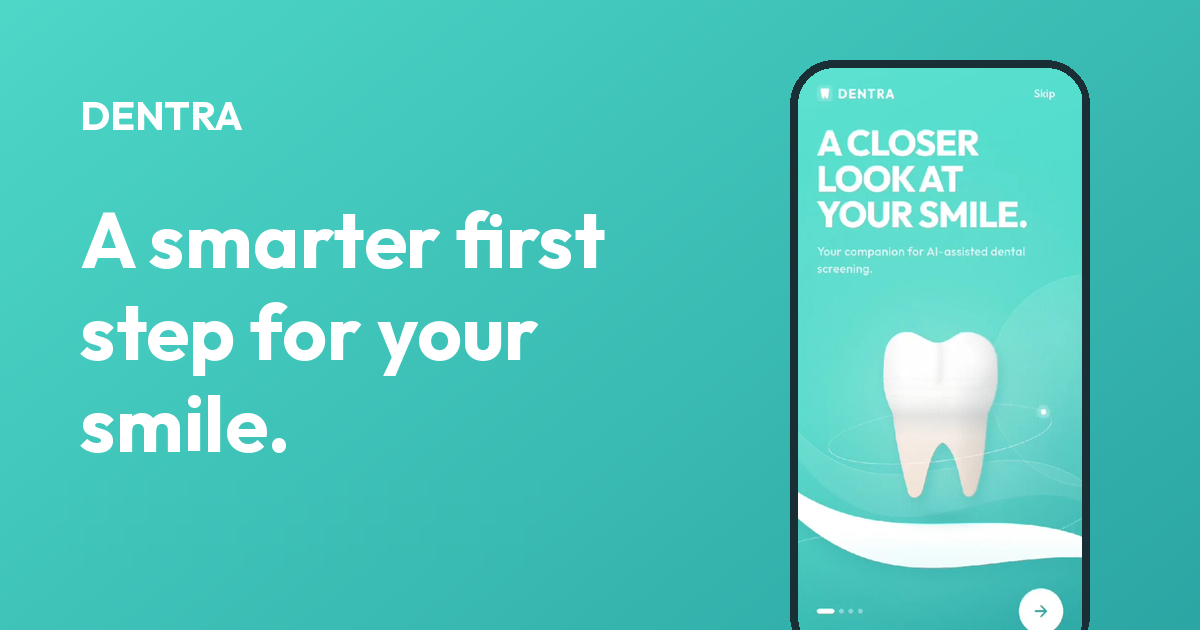
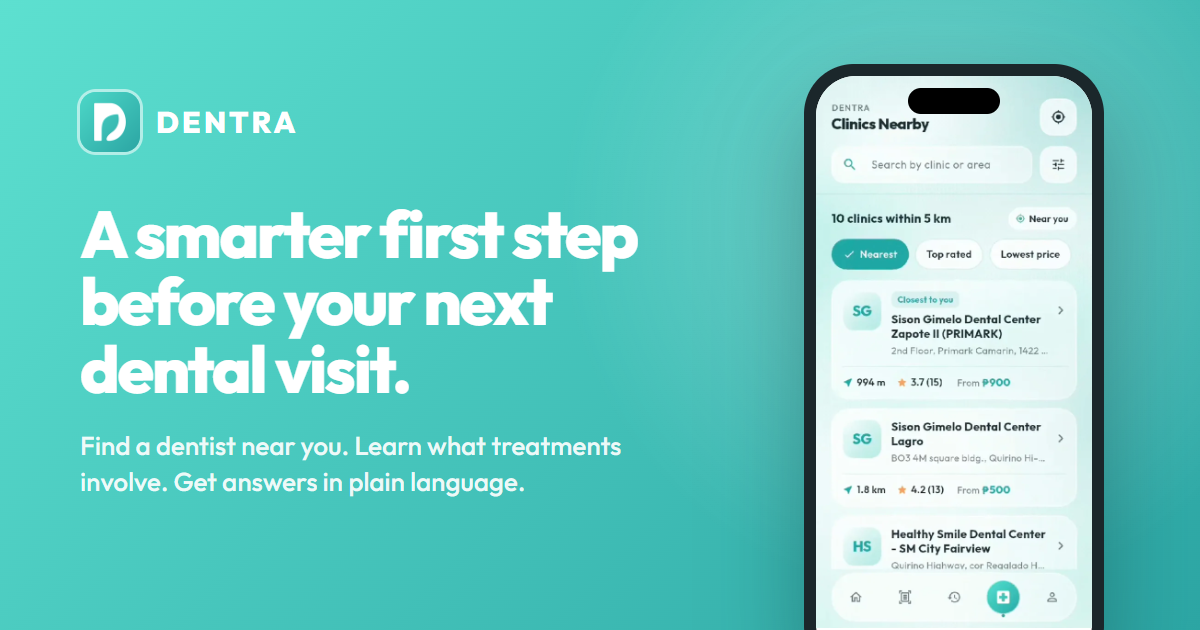
Audit site copy against DENTRA_app_context.md
Hero, title, meta and OG copy lead with what works today (Clinic Finder,
Treatment Library, AI assistant) instead of 'Screen at home'. Scan step is
'Capture' and labelled a prototype with demo results; device copy says
'Capstone prototype', explains or drops jargon (NIR, intraoral, typodont,
18650, MOSFET) and never claims detection. 'Rabi' replaced with 'AI
assistant' pending team sign-off; FAQ notes prices are estimates; privacy
copy no longer implies saved settings. New og.png (scripts/render-og.mjs)
drops the 'AI-assisted dental screening' text. Play badge reads 'Get it on'
per the owner (still not a link). Boards hide behind the wand at step 0.

diff --git a/app/treatments-ai.jsx b/app/treatments-ai.jsx
@@ -5,16 +5,16 @@ import Icon from '../components/icon';
 import Reveal from './reveal';
 
 const treatments = {
-  General: { name: 'Teeth cleaning', what: 'Removes plaque and tartar that brushing can miss.', time: '30–60 min', steps: ['Check-up and exam', 'Scaling removes tartar', 'Polishing', 'Home care tips'] },
+  General: { name: 'Teeth cleaning', what: 'Removes plaque and tartar that brushing can miss.', time: '30–60 min', steps: ['Check-up and exam', 'Hardened plaque (tartar) scraped off', 'Polishing', 'Home care tips'] },
   Cosmetic: { name: 'Teeth whitening', what: 'Lightens stains for a brighter-looking smile.', time: '60–90 min', steps: ['Shade check', 'Gums protected', 'Whitening gel applied', 'New shade reviewed'] },
-  Orthodontics: { name: 'Braces', what: 'Gradually moves teeth into better alignment.', time: '1–2 hrs to fit', steps: ['Consult and X-rays', 'Brackets bonded', 'Wire placed', 'Adjustment visits'] },
+  Orthodontics: { name: 'Braces', what: 'Gradually moves teeth into better alignment.', time: '1–2 hrs to fit', steps: ['Consult and X-rays', 'Small brackets glued to teeth', 'Wire placed', 'Adjustment visits'] },
   Surgical: { name: 'Tooth extraction', what: 'Removes a tooth that can’t be saved or is crowding others.', time: '20–40 min', steps: ['Exam and X-ray', 'Area numbed', 'Tooth removed', 'Aftercare guidance'] },
 };
 
 // Sample exchanges showing the kind of answer Rabi gives. Educational only.
 const chats = [
   { q: 'How often should I get a cleaning?', a: 'Many dentists suggest a check-up and cleaning about every six months. Your dentist may suggest a different schedule for you.' },
-  { q: 'What happens when braces are fitted?', a: 'Small brackets are bonded to your teeth and a wire is threaded through them. Fitting usually takes one to two hours, with adjustment visits after.' },
+  { q: 'What happens when braces are fitted?', a: 'Small brackets are glued to your teeth and a thin wire is threaded through them. Fitting usually takes one to two hours, with adjustment visits after.' },
   { q: 'Is whitening right for me?', a: 'It depends on your teeth and gums. A dentist can check whether whitening suits you and which option is safest.' },
 ];
 
@@ -64,7 +64,7 @@ export default function TreatmentsAI() {
           <Reveal delay={100} className="card panel">
             <div className="panel-head">
               <span className="icon-tile icon-tile-sm"><Icon name="chat" size={18} /></span>
-              <b>Ask Rabi</b>
+              <b>Ask the AI assistant</b>
               <span className="chip">Sample answers</span>
             </div>
             <div className="chat" key={chat} aria-live="polite">
@@ -78,7 +78,7 @@ export default function TreatmentsAI() {
                 </button>
               ))}
             </div>
-            <p className="note">Rabi gives educational answers in plain language. Guidance, not a diagnosis.</p>
+            <p className="note">The AI assistant gives general, educational answers in plain language. It is not medical advice or a diagnosis.</p>
           </Reveal>
         </div>
       </div>

diff --git a/components/device/steps.js b/components/device/steps.js
@@ -14,16 +14,16 @@ import RaspberryPiZero from './RaspberryPiZero';
 // Copy rules: plain language, "captures / helps guide / designed to", never a
 // detection, diagnosis or accuracy claim.
 export const STEPS = [
-  { id: 'shell', name: 'Enclosure shell', desc: '3D-printed housing with an optical window.', Part: EnclosureShell, anchorX: 332, z: 10 },
-  { id: 'barrier', name: 'Disposable intraoral barrier', desc: 'A fresh cover for every use, for hygiene.', Part: DisposableBarrier, anchorX: 164, z: 20 },
-  { id: 'camera', name: 'Camera Module 3 NoIR', desc: 'Captures the tooth images.', Part: CameraModule, anchorX: 184, z: 8 },
-  { id: 'leds', name: '850 nm NIR LEDs', desc: 'Near-infrared light, with resistors and MOSFET drivers.', Part: NIRLEDs, anchorX: 160, z: 7 },
+  { id: 'shell', name: 'Enclosure shell', desc: 'A 3D-printed case with a clear window at the tip for the camera. Shown here as a concept render.', Part: EnclosureShell, anchorX: 332, z: 10 },
+  { id: 'barrier', name: 'Disposable barrier', desc: 'A single-use cover for the part that goes inside the mouth. A fresh one every time, for hygiene.', Part: DisposableBarrier, anchorX: 138, z: 20 },
+  { id: 'camera', name: 'Camera module', desc: 'A tiny camera that can also see near-infrared light, which our eyes can’t. It takes the tooth photos.', Part: CameraModule, anchorX: 184, z: 8 },
+  { id: 'leds', name: 'Near-infrared lights', desc: 'Small LEDs that give off light our eyes can’t see but the camera can, to light up the teeth.', Part: NIRLEDs, anchorX: 160, z: 7 },
   { id: 'pi', name: 'Raspberry Pi Zero 2 W', desc: 'The tiny computer that runs the camera.', Part: RaspberryPiZero, anchorX: 304, z: 6 },
-  { id: 'power', name: 'Power board', desc: 'TP4056 charging, 5V boost converter, power switch and fuse.', Part: PowerBoard, anchorX: 312, z: 5 },
-  { id: 'battery', name: '18650 battery', desc: 'Rechargeable power for handheld use.', Part: Battery18650, anchorX: 304, z: 4 },
+  { id: 'power', name: 'Power board', desc: 'Charges the battery and keeps the power steady, with an on/off switch and a fuse for safety.', Part: PowerBoard, anchorX: 312, z: 5 },
+  { id: 'battery', name: 'Rechargeable battery', desc: 'A standard lithium-ion battery, so it works without a cable.', Part: Battery18650, anchorX: 304, z: 4 },
 ];
 
 export const FINAL = {
   name: 'The whole prototype',
-  desc: 'Capstone research prototype. Tested on typodont (artificial teeth) models.',
+  desc: 'A capstone prototype. So far it has only been tested on typodonts (practice models of teeth). It does not detect or diagnose anything.',
 };

diff --git a/components/device/DeviceExplodedView.jsx b/components/device/DeviceExplodedView.jsx
@@ -149,7 +149,10 @@ export default function DeviceExplodedView() {
   const active = step >= 1 && step <= N ? step - 1 : -1;
   // While a step is active, only the top of the remaining stack stays visible
   // (dimmed, "next up"): dimmed parts overlapping each other read as a smudge.
+  // Assembled (step 0), the boards are inside the wand, so only the housing and
+  // the sleeve show.
   const partClass = (i) => {
+    if (step === 0) return i > 1 ? ' is-hidden' : '';
     if (active === -1) return '';
     if (i === active) return ' is-active';
     return i > active + 1 ? ' is-hidden' : ' is-dim';
@@ -162,7 +165,7 @@ export default function DeviceExplodedView() {
         : `Step ${N + 1} of ${N + 1}: ${FINAL.desc}`;
 
   return (
-    <section className="device" id="device" aria-label="Inside the DENTRA scanner, a research prototype">
+    <section className="device" id="device" aria-label="Inside the DENTRA camera, a capstone prototype">
       {/* Pinned, scroll-driven view */}
       <div className="device-track" ref={trackRef}>
         <div className="device-stage" ref={stageRef}>
@@ -186,12 +189,12 @@ export default function DeviceExplodedView() {
 
             <div className="device-panel">
               <p className="device-eyebrow">
-                The device <span className="device-tag">Research prototype</span>
+                The device <span className="device-tag">Capstone prototype</span>
               </p>
               <div className="device-labels">
                 <div className={`device-label${step === 0 ? ' on' : ''}`}>
                   <h2 className="device-title">See what&apos;s inside.</h2>
-                  <p className="muted">Scroll to open up the DENTRA scanner, one part at a time.</p>
+                  <p className="muted">Scroll to open up our prototype camera, one part at a time.</p>
                 </div>
                 {STEPS.map((s, i) => (
                   <div key={s.id} className={`device-label${step === i + 1 ? ' on' : ''}`} aria-hidden="true">
@@ -227,7 +230,7 @@ export default function DeviceExplodedView() {
       <div className="device-static">
         <div className="wrap">
           <p className="device-eyebrow">
-            The device <span className="device-tag">Research prototype</span>
+            The device <span className="device-tag">Capstone prototype</span>
           </p>
           <h2 className="device-title">See what&apos;s inside.</h2>
           <ol className="device-static-list">

diff --git a/app/faq.jsx b/app/faq.jsx
@@ -8,9 +8,9 @@ import Reveal from './reveal';
 const faqs = [
   ['Is DENTRA a diagnosis?', 'No. DENTRA gives general information and screening guidance to help you decide when to see a dentist. It does not diagnose any condition.'],
   ['Does it replace my dentist?', 'No. Think of it as a first step. Always see a licensed dentist for care.'],
-  ['What is the DENTRA scanner?', 'A handheld camera our capstone team built as a research prototype. It has been tested on typodont (artificial teeth) models only, has not been clinically validated, and is not for sale.'],
-  ['How do I get it?', 'On Android, DENTRA is coming soon to Google Play. On iPhone, open the DENTRA web app in Safari and add it to your Home Screen, as shown above.'],
-  ['Are clinic prices and services real?', 'Clinic locations come from real map data. Service lists in the app are estimates, so confirm details with the clinic directly.'],
+  ['What is the DENTRA camera?', 'A small handheld camera for taking photos inside the mouth, built by our capstone team as a prototype. It has only been tested on typodonts (practice models of teeth). It has not been proven for real dental care, and it does not detect or diagnose anything.'],
+  ['How do I get it?', 'On Android, DENTRA is coming soon to Google Play. The DENTRA web app works now in any browser. On iPhone, open it in Safari and add it to your Home Screen, as shown above.'],
+  ['Are clinic prices and services real?', 'Clinic locations come from real map data. Prices and service lists in the app are estimates, not confirmed by the clinics, so check details with the clinic directly.'],
 ];
 
 export default function Faq() {
@@ -38,7 +38,7 @@ export default function Faq() {
 
         <Reveal className="card cta-final">
           <h2>Get DENTRA on your phone.</h2>
-          <p className="muted">Screen at home, understand your options and find a dentist nearby.</p>
+          <p className="muted">Find a dentist near you, understand your options, and get answers in plain language.</p>
           <div className="cta-row">
             <HomeScreenBadge />
             <PlayBadge />

diff --git a/app/hero.jsx b/app/hero.jsx
@@ -8,8 +8,8 @@ import { HomeScreenBadge, PlayBadge } from '../components/store-badges';
 const screens = [
   { name: 'clinics', icon: 'pin', title: 'Clinics nearby', sub: 'Nearest first', alt: 'Clinics Nearby screen listing dental clinics sorted by distance' },
   { name: 'treatments', icon: 'book', title: 'Treatment library', sub: 'Know what to expect', alt: 'Treatments screen with search and category chips' },
-  { name: 'rabi', icon: 'chat', title: 'Ask Rabi', sub: 'Plain-language answers', alt: 'Rabi, the DENTRA assistant, with suggested dental questions' },
-  { name: 'scan', icon: 'camera', title: 'Guided scan', sub: 'Five views, one at a time', alt: 'Dental Scan screen with five mouth regions to capture' },
+  { name: 'rabi', icon: 'chat', title: 'AI assistant', sub: 'Plain-language answers', alt: 'The DENTRA AI assistant, with suggested dental questions' },
+  { name: 'scan', icon: 'camera', title: 'Guided capture', sub: 'Prototype, demo results', alt: 'Guided capture screen with five mouth regions to photograph (prototype)' },
 ];
 
 export default function Hero() {
@@ -25,13 +25,13 @@ export default function Hero() {
     <section className="hero" id="top">
       <div className="wrap hero-in">
         <div className="hero-text rise">
-          <p className="eyebrow">Dental screening, made simple</p>
+          <p className="eyebrow">Clinics, treatments and answers in one app</p>
           <h1>
             A smarter first step
             <br />
-            <span className="grad">for your smile.</span>
+            <span className="grad">before your next dental visit.</span>
           </h1>
-          <p className="lead">Screen at home. Understand your options. Find a dentist nearby.</p>
+          <p className="lead">Find a dentist near you, learn what common treatments involve, and get answers in plain language.</p>
           <div className="hero-cta">
             <HomeScreenBadge />
             <PlayBadge />

diff --git a/app/layout.jsx b/app/layout.jsx
@@ -4,17 +4,17 @@ import './globals.css';
 const outfit = Outfit({ subsets: ['latin'], display: 'swap' });
 
 export const metadata = {
-  title: 'DENTRA — Dental screening, made simple',
+  title: 'DENTRA — A smarter first step before your next dental visit',
   description:
-    'Screen at home. Understand your options. Find a dentist nearby. DENTRA is coming soon to Google Play.',
+    'Find dental clinics near you, learn what common treatments involve, and ask questions in plain language. DENTRA is coming soon to Google Play.',
   metadataBase: new URL('https://getdentra.site'),
   openGraph: {
     type: 'website',
     url: '/',
     siteName: 'DENTRA',
-    title: 'DENTRA — A smarter first step for your smile',
+    title: 'DENTRA — A smarter first step before your next dental visit',
     description:
-      'Screen at home. Understand your options. Find a dentist nearby. Coming soon to Google Play.',
+      'Find dental clinics near you, learn what common treatments involve, and ask questions in plain language. DENTRA is coming soon to Google Play.',
     images: [
       {
         url: '/og.png',
@@ -26,9 +26,9 @@ export const metadata = {
   },
   twitter: {
     card: 'summary_large_image',
-    title: 'DENTRA — A smarter first step for your smile',
+    title: 'DENTRA — A smarter first step before your next dental visit',
     description:
-      'Screen at home. Understand your options. Find a dentist nearby. Coming soon to Google Play.',
+      'Find dental clinics near you, learn what common treatments involve, and ask questions in plain language. DENTRA is coming soon to Google Play.',
     images: ['/og.png'],
   },
 };

diff --git a/app/how-it-works.jsx b/app/how-it-works.jsx
@@ -3,8 +3,8 @@ import { shot, shot2x } from '../components/phone';
 import Reveal from './reveal';
 
 const steps = [
-  { tag: '01', title: 'Scan', icon: 'camera', body: 'Guided steps walk you through five views of your mouth, one at a time.', screen: 'scan', alt: 'Guided scan screen with five capture regions' },
-  { tag: '02', title: 'Understand', icon: 'chat', body: 'Read what common treatments involve, or ask Rabi in plain language.', screen: 'rabi', alt: 'Rabi assistant with suggested questions' },
+  { tag: '01', title: 'Capture', icon: 'camera', body: 'Guided steps help you photograph your teeth, one view at a time. This part is a prototype, so results are demo values for now.', screen: 'scan', alt: 'Guided capture screen with five photo regions (prototype)' },
+  { tag: '02', title: 'Understand', icon: 'chat', body: 'Read what common treatments involve, or ask the AI assistant in plain language.', screen: 'rabi', alt: 'AI assistant screen with suggested questions' },
   { tag: '03', title: 'Act', icon: 'pin', body: 'Find real clinics around you, nearest first. Call or get directions.', screen: 'clinics', alt: 'Clinics list sorted by distance' },
 ];
 
@@ -14,7 +14,7 @@ export default function HowItWorks() {
       <div className="wrap">
         <Reveal className="head center">
           <p className="eyebrow">How it works</p>
-          <h2 className="h2">Scan. Understand. Act.</h2>
+          <h2 className="h2">Capture. Understand. Act.</h2>
         </Reveal>
         <div className="how-grid">
           {steps.map((s, i) => (

diff --git a/components/store-badges.jsx b/components/store-badges.jsx
@@ -1,9 +1,8 @@
-// Store-style badges (black, logo left, small line over a big line). The copy
-// is deliberately not the official badge text: DENTRA is not on the App Store
-// (iPhone uses the web app) and not yet on Google Play.
+// Store-style badges (black, logo left, small line over a big line). The Apple
+// badge never says "App Store": iPhone users get DENTRA as a web app.
 
 // Set to the Play Store listing URL once DENTRA is published; until then the
-// Play badge reads "Coming soon to" and is not a link.
+// Play badge is not a link. "Get it on" is the owner's call (2026-10-31).
 export const PLAY_URL = null;
 
 const AppleLogo = () => (
@@ -48,7 +47,7 @@ export function PlayBadge({ small = false }) {
     <>
       <PlayLogo />
       <span>
-        <small className="caps">{PLAY_URL ? 'Get it on' : 'Coming soon to'}</small>
+        <small className="caps">Get it on</small>
         <strong>Google Play</strong>
       </span>
     </>

diff --git a/app/privacy-trust.jsx b/app/privacy-trust.jsx
@@ -4,8 +4,8 @@ import Reveal from './reveal';
 const points = [
   ['shield', 'Not a diagnosis', 'Screening guidance to help you decide when to see a dentist. It does not diagnose any condition.'],
   ['user', 'Your dentist comes first', 'For any concern, a licensed dentist is the right call.'],
-  ['info', 'Clear about what’s ready', 'Scan results and history use sample data for now. The scanner is a research prototype.'],
-  ['lock', 'Privacy controls', 'Consent toggles, security settings and account deletion, designed in from the start.'],
+  ['info', 'Clear about what’s ready', 'Scan results and history show sample data for now. The camera is a capstone prototype.'],
+  ['lock', 'Privacy settings', 'Consent and security settings are built into the app. They don’t save between sessions yet.'],
 ];
 
 export default function PrivacyTrust() {

diff --git a/app/page.jsx b/app/page.jsx
@@ -30,7 +30,7 @@ export default function Home() {
             DENTRA provides general information and screening guidance. It is not a medical diagnosis. Always consult a licensed dentist.
           </p>
           <p className="disclaimer">
-            The DENTRA scanner is a capstone research prototype, tested on typodont (artificial teeth) models. It has not been clinically validated.
+            The DENTRA camera is a capstone prototype. It has only been tested on practice models of teeth, and it does not detect or diagnose anything.
           </p>
           <p className="fine">A capstone project. © {new Date().getFullYear()} DENTRA.</p>
         </div>
